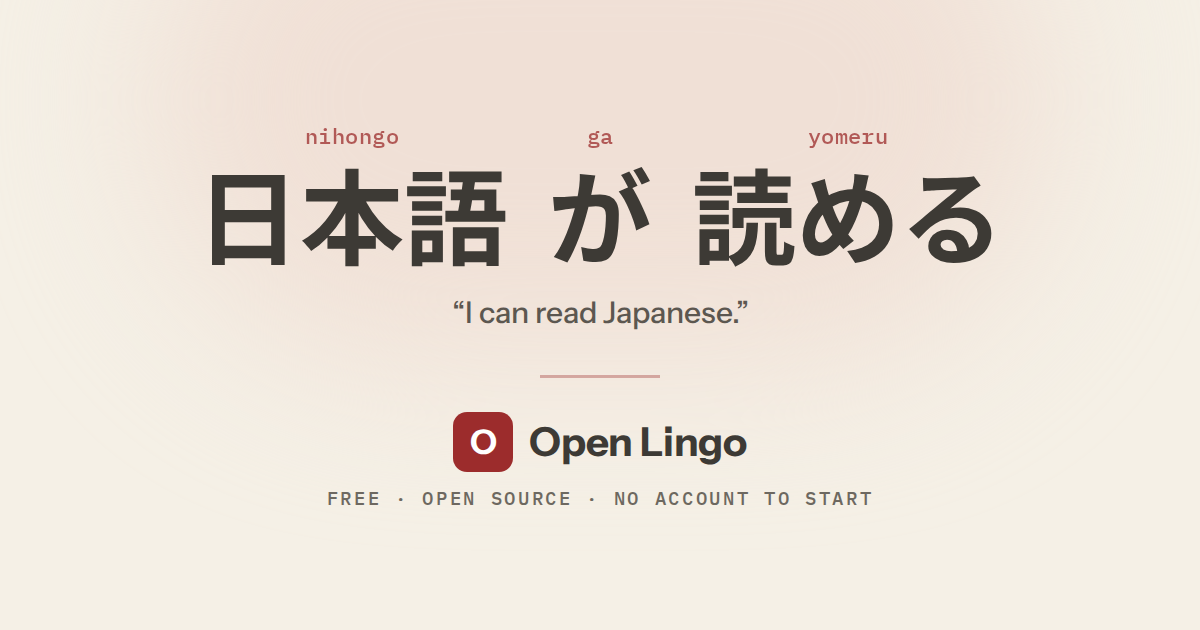
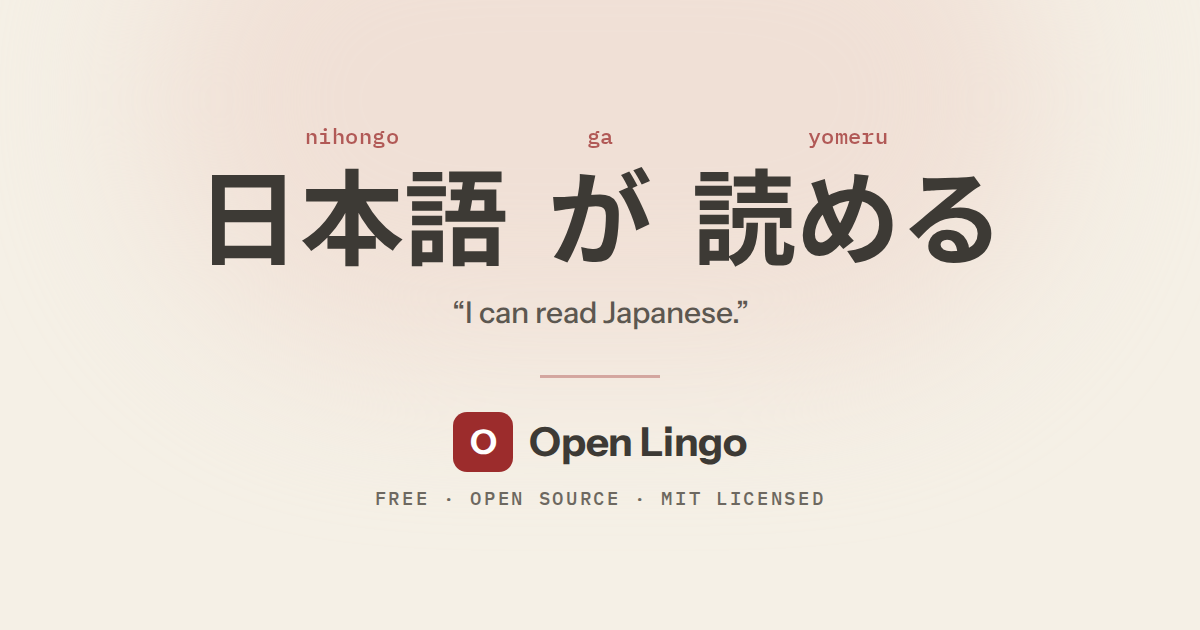
Accuracy scrub: drop the no-account claim, add the missing LICENSE
The site said "no account needed to start" in the hero, the meta description,
the OG and Twitter cards, the image alt text and the OG image itself. You can
take a lesson signed out, but nothing persists and nothing syncs without an
account, so the claim oversold it. Replaced with the MIT-licensed line, and
the hero meta now says plainly what an account is for.

Adds LICENSE. The site claims MIT in the hero, the open-source block, the
footer, the FAQ and the JSON-LD, but this repo carried no licence file at all
— which legally means all rights reserved, the opposite of the claim. Same
MIT text as the sibling repos. lingo-core was missing one too and is fixed in
its own commit.

copy.test.ts now also fails on "no account" / "no signup" so the claim cannot
come back by accident.

Everything else checked against the code and left alone: 3 languages
(ko/ja/es all have real curricula), Whisper-backed speech recognition on by
default, stroke-level handwriting scoring, TTS present for all three
languages, 27 step types, FSRS-6 recognition/production split, Google sign-in
(verified live on the Auth0 screen), and the backend README does document
running it yourself.

Changed region(s): [[0.2775, 0.7841, 0.74, 0.8143]]

diff --git a/index.html b/index.html
@@ -17,7 +17,7 @@
     <title>Open Lingo — free, open-source language learning</title>
     <meta
       name="description"
-      content="Structured courses, spaced-repetition flashcards, and letter practice for Korean, Japanese and Spanish. Free, open source, and no account needed to start."
+      content="Structured courses, spaced-repetition flashcards, and letter practice for Korean, Japanese and Spanish. Free and open source, MIT licensed."
     />
 
     <!-- Origins below are Vite build-time env substitutions, so a domain
@@ -43,14 +43,14 @@
     />
     <meta
       property="og:description"
-      content="Structured courses, spaced-repetition flashcards, and letter practice for Korean, Japanese and Spanish. Free, open source, and no account needed to start."
+      content="Structured courses, spaced-repetition flashcards, and letter practice for Korean, Japanese and Spanish. Free and open source, MIT licensed."
     />
     <meta property="og:image" content="%VITE_SITE_ORIGIN%/og-image.png" />
     <meta property="og:image:width" content="1200" />
     <meta property="og:image:height" content="630" />
     <meta
       property="og:image:alt"
-      content="日本語が読める — “I can read Japanese.” Open Lingo: free, open source, no account to start."
+      content="日本語が読める — “I can read Japanese.” Open Lingo: free, open source, MIT licensed."
     />
     <meta property="og:locale" content="en_US" />
 
@@ -61,7 +61,7 @@
     />
     <meta
       name="twitter:description"
-      content="Structured courses, spaced-repetition flashcards, and letter practice. Free, open source, and no account needed to start."
+      content="Structured courses, spaced-repetition flashcards, and letter practice. Free and open source, MIT licensed."
     />
     <meta name="twitter:image" content="%VITE_SITE_ORIGIN%/og-image.png" />
 

diff --git a/src/content/copy.ts b/src/content/copy.ts
@@ -63,14 +63,14 @@ export const HERO_PHRASES: readonly HeroPhrase[] = [
  */
 export const COPY = {
   hero: {
-    eyebrow: "Free · Open source · No account needed to start",
+    eyebrow: "Free · Open source · MIT licensed",
     lead: "Right now you need the small grey text.",
     leadAccent: "Give it three weeks.",
     subtitle:
       "Structured courses, spaced repetition that actually tracks what you forget, and handwriting practice — in an app whose source you can read.",
     primaryCta: "Try a lesson",
     secondaryCta: "Create account",
-    meta: "No card, no signup to try, no ads on lessons",
+    meta: "No card. An account keeps your progress in sync across devices.",
   },
 
   why: {
@@ -158,7 +158,7 @@ export const COPY = {
   closing: {
     title: "Three weeks from now",
     subtitle:
-      "That sentence at the top stops needing its annotation. Start with one lesson — no account required.",
+      "That sentence at the top stops needing its annotation. Start with one lesson.",
     roadmapPrompt: "Want to see what is coming next?",
     roadmapCta: "Read the roadmap",
   },

diff --git a/src/pages/Landing.tsx b/src/pages/Landing.tsx
@@ -13,7 +13,7 @@ export function Landing() {
   useSeo({
     title: "Open Lingo",
     description:
-      "Structured courses, spaced-repetition flashcards, and letter practice for Korean, Japanese and Spanish. Free, open source, and no account needed to start.",
+      "Structured courses, spaced-repetition flashcards, and letter practice for Korean, Japanese and Spanish. Free and open source, MIT licensed.",
     path: "/",
   });
   const closing = useReveal<HTMLDivElement>();

diff --git a/src/content/copy.test.ts b/src/content/copy.test.ts
@@ -43,6 +43,10 @@ describe("landing copy", () => {
     "share yours",
     "anki",
     "stories with audio",
+    // Retired 2026-08-03: you can try a lesson signed out, but an account is
+    // required for progress to persist or sync, so "no account needed" oversold it.
+    "no account",
+    "no signup",
   ])("does not advertise %s, which does not ship today", (claim) => {
     expect(text).not.toContain(claim);
   });
